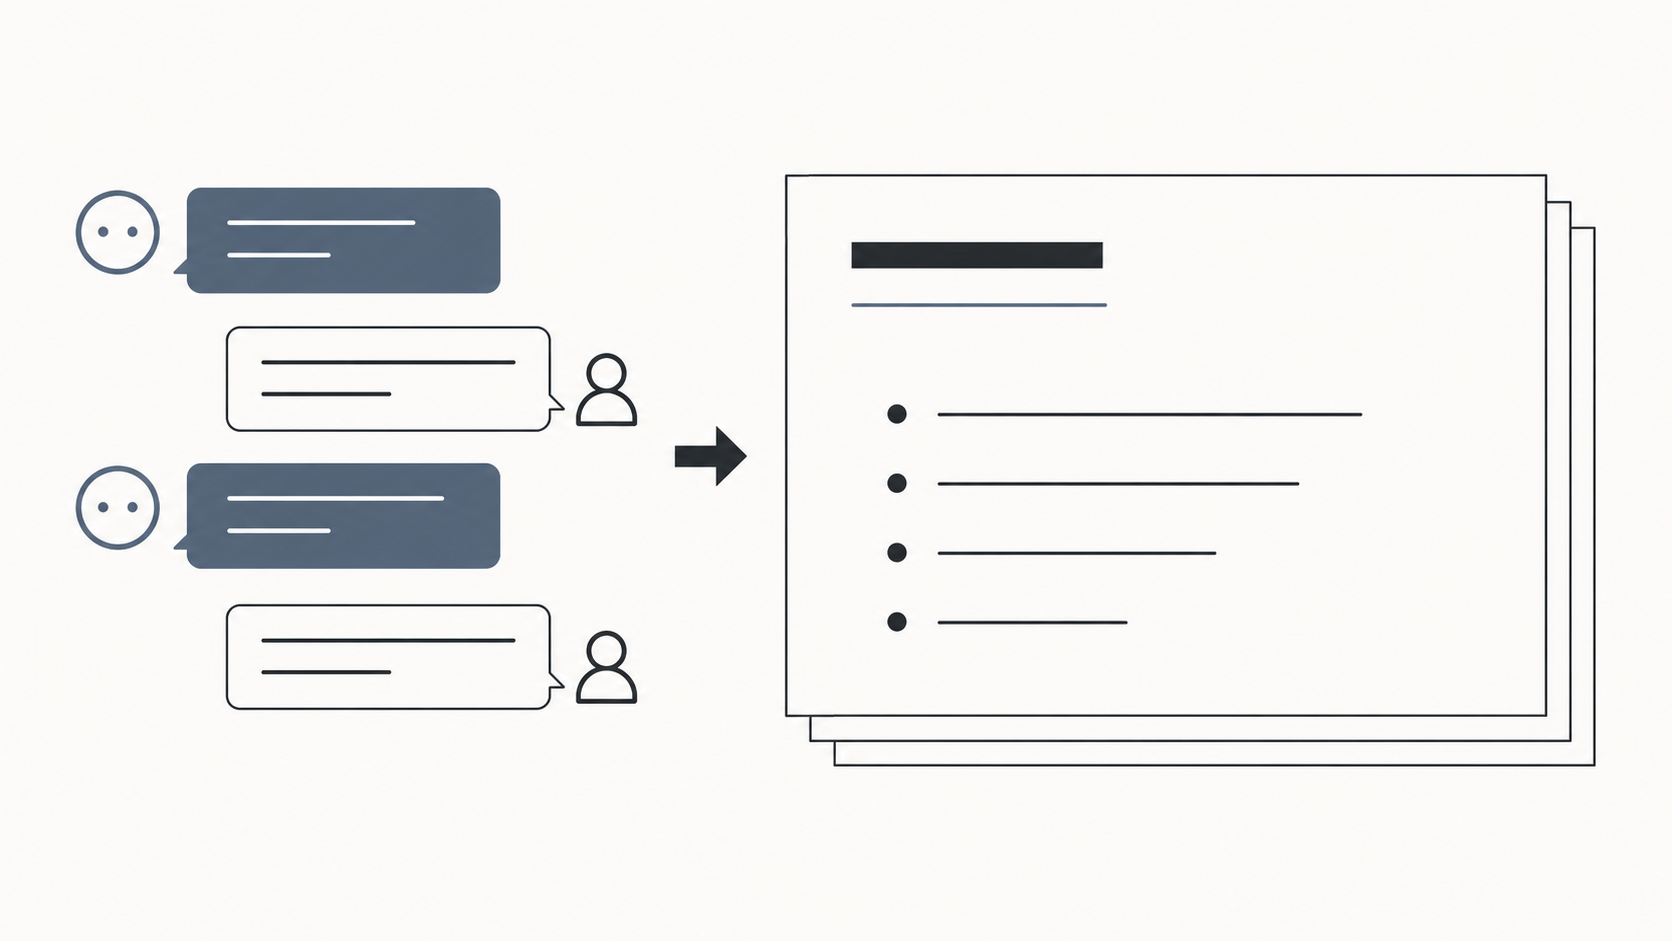
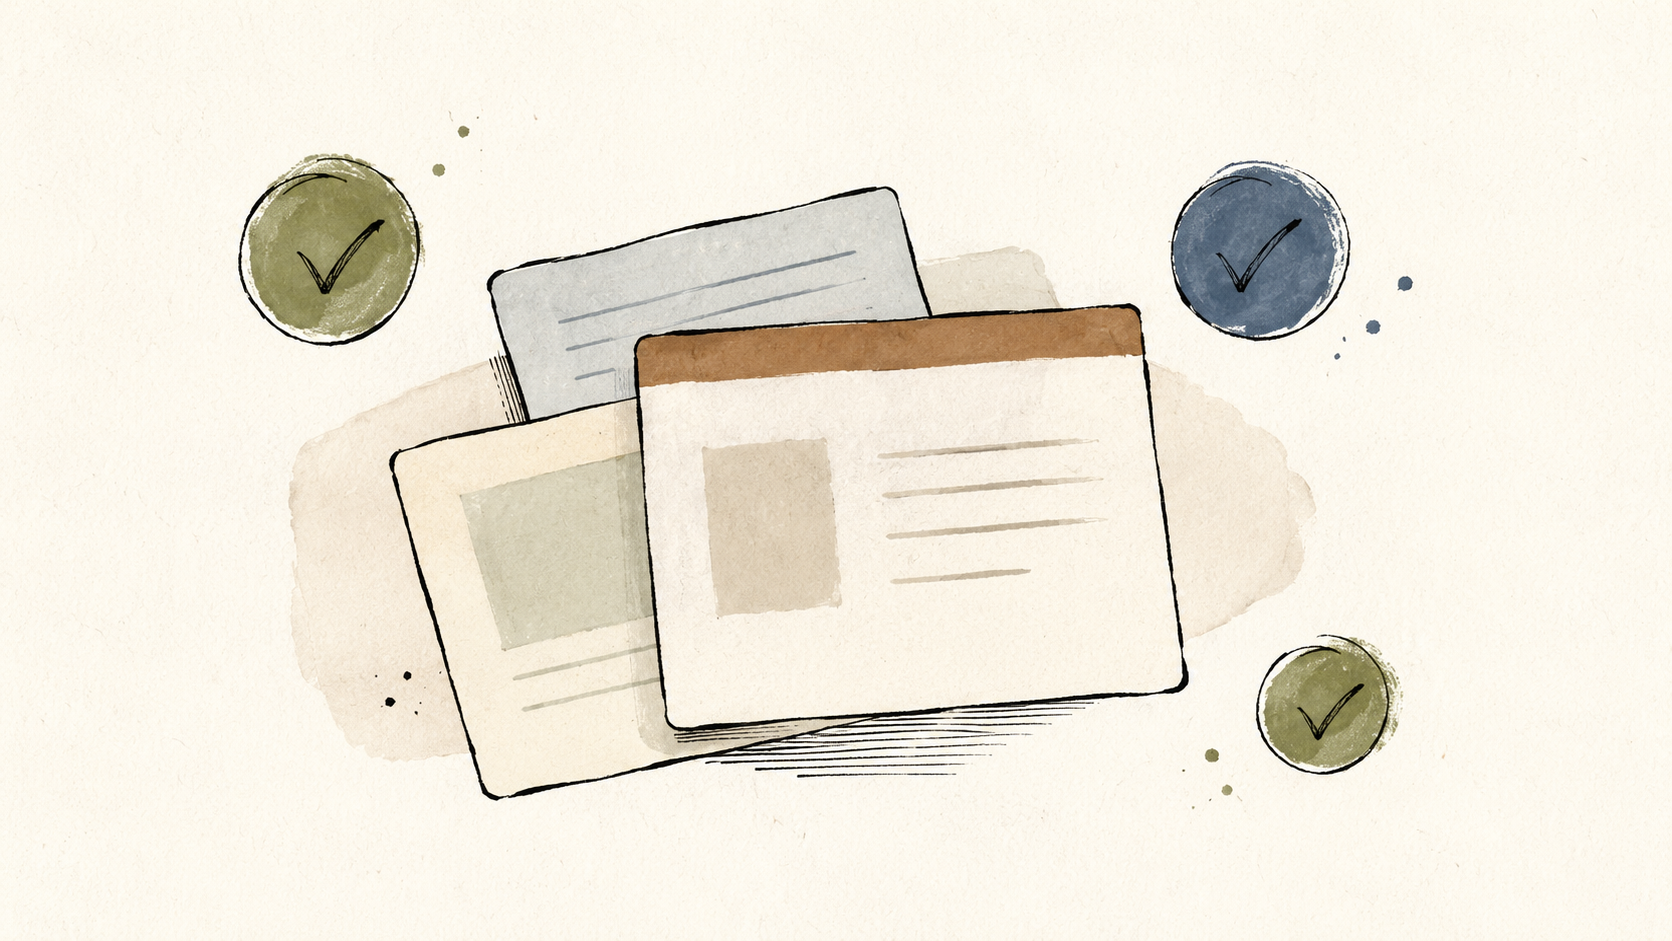
docs: READMEヒーロー画像を手描き風イラストに差し替え
Claude-Session: https://claude.ai/code/session_014now4nNwkBQo3Trv7DTksD

Changed region(s): [[0.0311, 0.1541, 0.9641, 0.8629], [0.8086, 0.339, 0.8397, 0.3698]]

diff --git a/README.md b/README.md
@@ -10,7 +10,7 @@
 - **人が直接触りたいときは**、同じMarkdownをブラウザの編集WebUIでそのまま開ける。スライド上のテキストをクリックしてその場で書き換えられる
 
 <p>
-  <img src="examples/assets/screenshots/agent-first-glance.png" width="900" alt="slide-forgeの仕組みを表す図。左にAIエージェント(丸顔アイコン)と人間(人型アイコン)の会話が交互に並び、矢印の先に見出し・下線・箇条書きを持つ完成したスライドが重なって並ぶ">
+  <img src="examples/assets/screenshots/agent-first-glance.png" width="900" alt="重なり合ったスライド風のカードと、チェックマークのアイコンが並ぶイラスト。生成したスライドの品質確認が完了したイメージを表す">
 </p>
 
 ## エージェントから使う